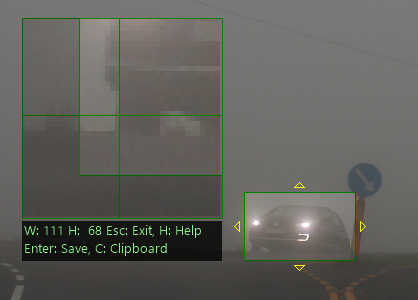
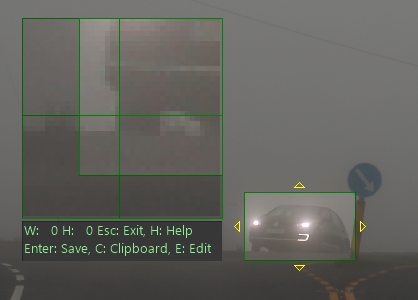
fixed region capture on release. updated help screenshots

Changed region(s): [[0.0311, 0.72, 0.5287, 0.87]]

diff --git a/Forms/MainForm.cs b/Forms/MainForm.cs
@@ -696,8 +696,6 @@ public partial class MainForm : Form
     public bool CaptureRegion(string folder, string filename, ImageFormat format, bool useAllScreens)
     {
         bool saved = false;
-        //Screen screen = Screen.FromPoint(Cursor.Position);
-        //Bitmap bmp = GetScreenImage(screen);
         ImageView imgView;
 
         if (useAllScreens)
@@ -708,20 +706,6 @@ public partial class MainForm : Form
         {
             imgView = ImageView.CreateUsingCurrentScreen(ImageView.ViewerMode.cropCapture);
         }
-
-        imgView.CompleteCaptureOnMouseRelease = settings.RegionCompletesOnMouseRelease;
-        imgView.SaveToFile = settings.RegionToFile;
-        imgView.SendToEditor = settings.RegionToEditor;
-        imgView.SendToClipboard = settings.RegionToClipboard;
-
-        //ImageView imgView = new ImageView(ImageView.ViewerMode.cropCapture, screen.Bounds, bmp)
-        //{
-        //    Location = new Point(screen.Bounds.X, screen.Bounds.Y),
-        //    CompleteCaptureOnMouseRelease = settings.RegionCompletesOnMouseRelease,
-        //    SaveToFile = settings.RegionToFile,
-        //    SendToEditor = settings.RegionToEditor,
-        //    SendToClipboard = settings.RegionToClipboard,
-        //};
 
         imgView.SetImage();
         DialogResult result = imgView.ShowDialog();

diff --git a/Classes/ImageView/CaptureModule.cs b/Classes/ImageView/CaptureModule.cs
@@ -194,11 +194,13 @@ public class CaptureModule : ImageViewModule
 
         if (CompleteCaptureOnMouseRelease)
         {
+            Debug.WriteLine("Mouse up. Stop viewer based on release options");
             bool disposeAll = true;
             parentForm.isClosing = true;
 
             if (SendToClipboard)
             {
+                Debug.WriteLine("Mouse up. Send to Clipboard");
                 if (ImageResult != null)
                 {
                     Clipboard.SetImage(ImageResult);
@@ -207,6 +209,7 @@ public class CaptureModule : ImageViewModule
 
             if (SendToEditor)
             {
+                Debug.WriteLine("Mouse up. Send to Editor");
                 if (ImageResult != null)
                 {
                     Bitmap clonedForEditor = ImageResult.Clone(new Rectangle(0, 0, ImageResult.Width, ImageResult.Height), System.Drawing.Imaging.PixelFormat.Format32bppArgb); //(regionRect, System.Drawing.Imaging.PixelFormat.Format32bppArgb);
@@ -217,6 +220,7 @@ public class CaptureModule : ImageViewModule
 
             if (SaveToFile)
             {
+                Debug.WriteLine("Mouse up. Send to File");
                 DisposeSourceImage();
                 parentForm.DialogResult = DialogResult.Yes;
             }

diff --git a/Forms/ImageView.cs b/Forms/ImageView.cs
@@ -12,10 +12,10 @@ namespace ScreenShotTool
     [SupportedOSPlatform("windows")]
     public partial class ImageView : Form
     {
-        public bool CompleteCaptureOnMouseRelease = false;
-        public bool SaveToFile = false;
-        public bool SendToClipboard = false;
-        public bool SendToEditor = false;
+        public bool CompleteCaptureOnMouseRelease = Settings.Default.RegionCompletesOnMouseRelease;
+        public bool SaveToFile = Settings.Default.RegionToFile;
+        public bool SendToClipboard = Settings.Default.RegionToClipboard;
+        public bool SendToEditor = Settings.Default.RegionToEditor;
         public int X = 0;
         public int Y = 0;
         //public readonly Screen screen;

diff --git a/Forms/ScreenshotEditor.cs b/Forms/ScreenshotEditor.cs
@@ -753,7 +753,7 @@ public partial class ScreenshotEditor : Form
                     textBoxSymbolText.Text = gsText.Text;
                     if (gsText.ListViewItem != null)
                     {
-                        gsText.ListViewItem.Text = "Text: " + gsText.Text;
+                        gsText.ListViewItem.Text = "Text: " + gsText.Text[..10];
                     }
                     numericPropertiesFontSize.Value = (int)Math.Clamp(gsText.fontEmSize, minimumFontSize, maxFontSize);
                     checkBoxFontBold.Checked = (gsText.fontStyle & FontStyle.Bold) != 0;
